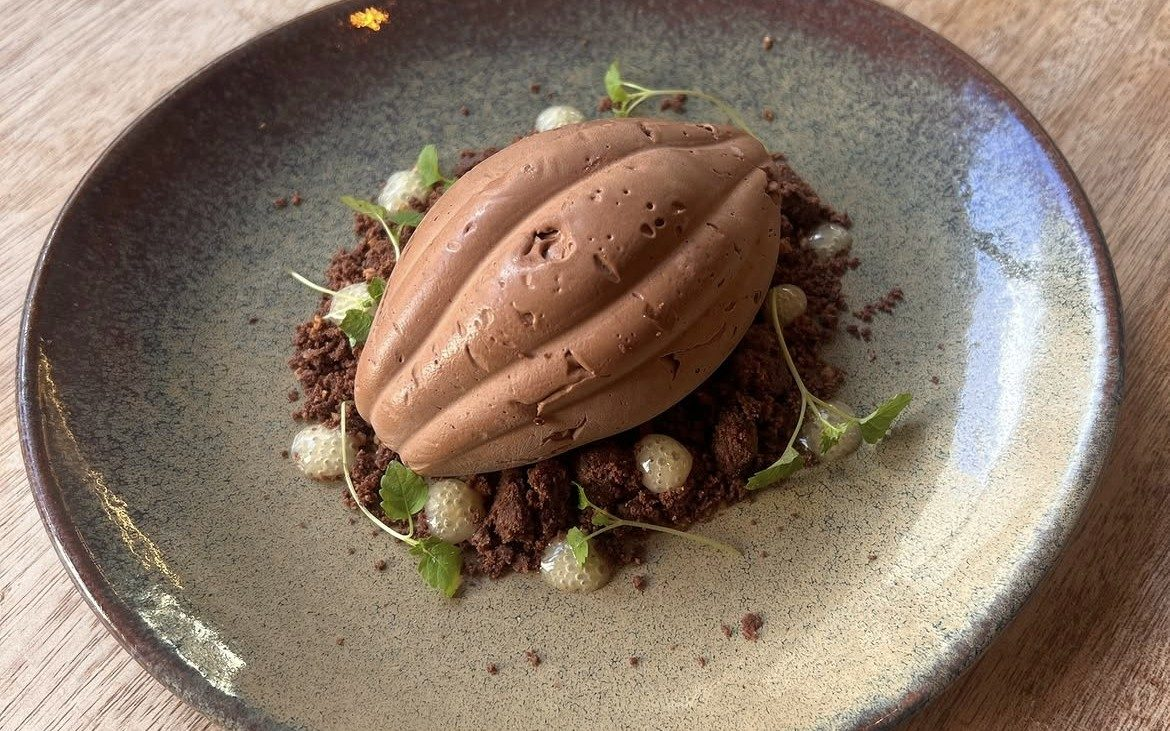
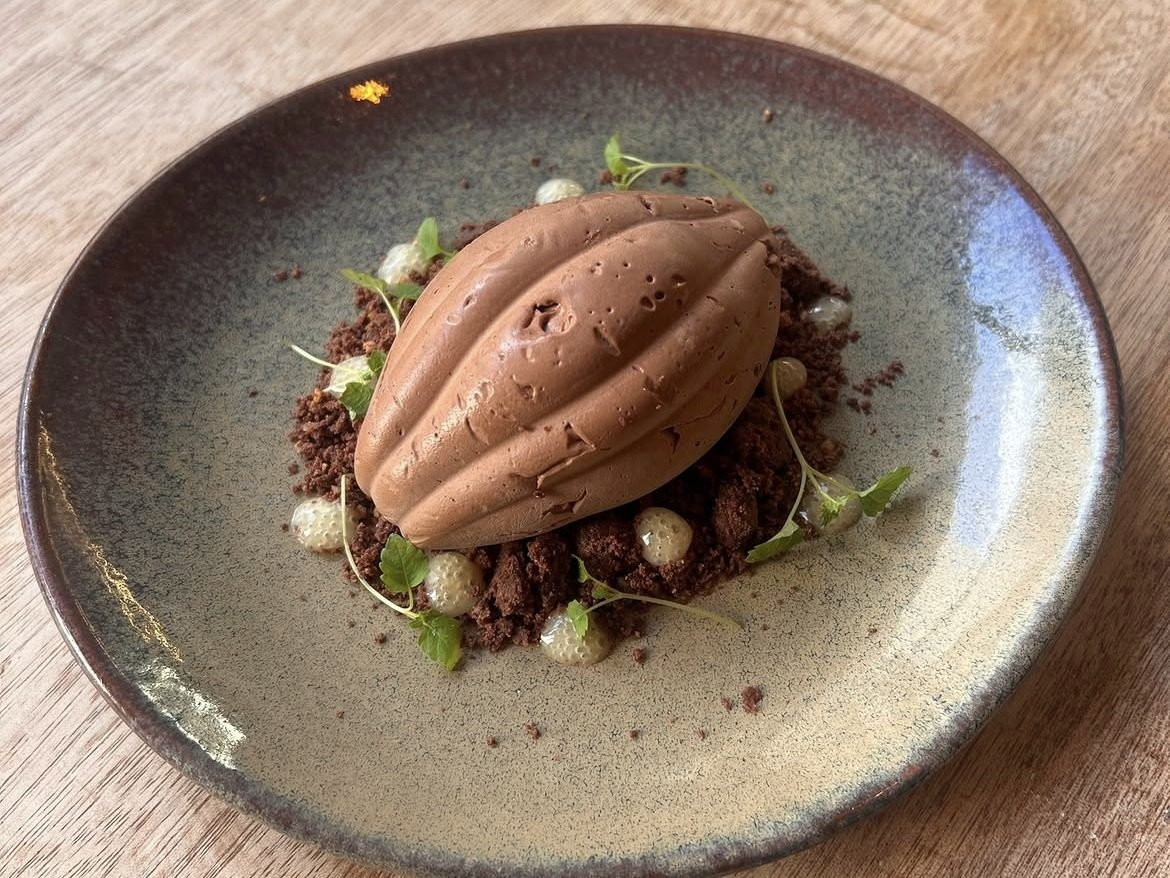
fresh
fresh

diff --git a/it/restaurant.html b/it/restaurant.html
@@ -9,7 +9,7 @@
   <link rel="preconnect" href="https://fonts.gstatic.com" crossorigin>
   <link href="https://fonts.googleapis.com/css2?family=Poppins:wght@300;400;500;600&display=swap" rel="stylesheet">
   <link rel="icon" type="image/svg+xml" href="../favicon.svg">
-  <link rel="stylesheet" href="../css/style.css?v=6">
+  <link rel="stylesheet" href="../css/style.css?v=7">
 </head>
 <body class="theme-resto">
 
@@ -121,9 +121,9 @@
     <h2 class="section-title">Alcuni piatti</h2>
     <hr class="divider">
     <div class="actus-grid">
-      <img src="../img/resto-plat-chou-fleur.jpg" alt="Cavolfiore in tre modi, purea di cavolfiore al tahini, cavolfiore arrosto, tabbouleh di cavolfiore" style="border-radius:6px;height:220px;width:100%;object-fit:cover;">
-      <img src="../img/resto-plat-ravioles.jpg" alt="Ravioli gratinati allo zafferano, specialità di Franquette" style="border-radius:6px;height:220px;width:100%;object-fit:cover;">
-      <img src="../img/resto-plat-chocolat.jpg" alt="Entremet al cioccolato e caffè a forma di baccello di cacao" style="border-radius:6px;height:220px;width:100%;object-fit:cover;">
+      <img src="../img/resto-plat-chou-fleur.jpg" alt="Cavolfiore in tre modi, purea di cavolfiore al tahini, cavolfiore arrosto, tabbouleh di cavolfiore" style="border-radius:6px;width:100%;height:auto;aspect-ratio:4/3;object-fit:cover;">
+      <img src="../img/resto-plat-ravioles.jpg" alt="Ravioli gratinati allo zafferano, specialità di Franquette" style="border-radius:6px;width:100%;height:auto;aspect-ratio:4/3;object-fit:cover;">
+      <img src="../img/resto-plat-chocolat.jpg" alt="Entremet al cioccolato e caffè a forma di baccello di cacao" style="border-radius:6px;width:100%;height:auto;aspect-ratio:4/3;object-fit:cover;">
     </div>
   </div>
 </section>

diff --git a/de/restaurant.html b/de/restaurant.html
@@ -9,7 +9,7 @@
   <link rel="preconnect" href="https://fonts.gstatic.com" crossorigin>
   <link href="https://fonts.googleapis.com/css2?family=Poppins:wght@300;400;500;600&display=swap" rel="stylesheet">
   <link rel="icon" type="image/svg+xml" href="../favicon.svg">
-  <link rel="stylesheet" href="../css/style.css?v=6">
+  <link rel="stylesheet" href="../css/style.css?v=7">
 </head>
 <body class="theme-resto">
 
@@ -121,9 +121,9 @@
     <h2 class="section-title">Ein paar Gerichte</h2>
     <hr class="divider">
     <div class="actus-grid">
-      <img src="../img/resto-plat-chou-fleur.jpg" alt="Blumenkohl auf drei Arten, Blumenkohlpüree mit Tahini, gerösteter Blumenkohl, Blumenkohl-Taboulé" style="border-radius:6px;height:220px;width:100%;object-fit:cover;">
-      <img src="../img/resto-plat-ravioles.jpg" alt="Gratinierte Safran-Ravioli, die Spezialität von Franquette" style="border-radius:6px;height:220px;width:100%;object-fit:cover;">
-      <img src="../img/resto-plat-chocolat.jpg" alt="Schokoladen-Kaffee-Entremet in Form einer Kakaoschote" style="border-radius:6px;height:220px;width:100%;object-fit:cover;">
+      <img src="../img/resto-plat-chou-fleur.jpg" alt="Blumenkohl auf drei Arten, Blumenkohlpüree mit Tahini, gerösteter Blumenkohl, Blumenkohl-Taboulé" style="border-radius:6px;width:100%;height:auto;aspect-ratio:4/3;object-fit:cover;">
+      <img src="../img/resto-plat-ravioles.jpg" alt="Gratinierte Safran-Ravioli, die Spezialität von Franquette" style="border-radius:6px;width:100%;height:auto;aspect-ratio:4/3;object-fit:cover;">
+      <img src="../img/resto-plat-chocolat.jpg" alt="Schokoladen-Kaffee-Entremet in Form einer Kakaoschote" style="border-radius:6px;width:100%;height:auto;aspect-ratio:4/3;object-fit:cover;">
     </div>
   </div>
 </section>

diff --git a/nl/restaurant.html b/nl/restaurant.html
@@ -9,7 +9,7 @@
   <link rel="preconnect" href="https://fonts.gstatic.com" crossorigin>
   <link href="https://fonts.googleapis.com/css2?family=Poppins:wght@300;400;500;600&display=swap" rel="stylesheet">
   <link rel="icon" type="image/svg+xml" href="../favicon.svg">
-  <link rel="stylesheet" href="../css/style.css?v=6">
+  <link rel="stylesheet" href="../css/style.css?v=7">
 </head>
 <body class="theme-resto">
 
@@ -121,9 +121,9 @@
     <h2 class="section-title">Enkele gerechten</h2>
     <hr class="divider">
     <div class="actus-grid">
-      <img src="../img/resto-plat-chou-fleur.jpg" alt="Bloemkool op drie manieren, bloemkoolpuree met tahini, geroosterde bloemkool, bloemkooltabouleh" style="border-radius:6px;height:220px;width:100%;object-fit:cover;">
-      <img src="../img/resto-plat-ravioles.jpg" alt="Gegratineerde saffraanravioli, specialiteit van Franquette" style="border-radius:6px;height:220px;width:100%;object-fit:cover;">
-      <img src="../img/resto-plat-chocolat.jpg" alt="Chocolade-koffie-entremet in de vorm van een cacaopeul" style="border-radius:6px;height:220px;width:100%;object-fit:cover;">
+      <img src="../img/resto-plat-chou-fleur.jpg" alt="Bloemkool op drie manieren, bloemkoolpuree met tahini, geroosterde bloemkool, bloemkooltabouleh" style="border-radius:6px;width:100%;height:auto;aspect-ratio:4/3;object-fit:cover;">
+      <img src="../img/resto-plat-ravioles.jpg" alt="Gegratineerde saffraanravioli, specialiteit van Franquette" style="border-radius:6px;width:100%;height:auto;aspect-ratio:4/3;object-fit:cover;">
+      <img src="../img/resto-plat-chocolat.jpg" alt="Chocolade-koffie-entremet in de vorm van een cacaopeul" style="border-radius:6px;width:100%;height:auto;aspect-ratio:4/3;object-fit:cover;">
     </div>
   </div>
 </section>

diff --git a/restaurant.html b/restaurant.html
@@ -9,7 +9,7 @@
   <link rel="preconnect" href="https://fonts.gstatic.com" crossorigin>
   <link href="https://fonts.googleapis.com/css2?family=Poppins:wght@300;400;500;600&display=swap" rel="stylesheet">
   <link rel="icon" type="image/svg+xml" href="favicon.svg">
-  <link rel="stylesheet" href="css/style.css?v=6">
+  <link rel="stylesheet" href="css/style.css?v=7">
 </head>
 <body class="theme-resto">
 
@@ -185,9 +185,9 @@
     <h2 class="section-title">Quelques assiettes</h2>
     <hr class="divider">
     <div class="actus-grid">
-      <img src="img/resto-plat-chou-fleur.jpg" alt="Chou-fleur en trois façons, purée de chou-fleur au tahini, chou-fleur rôti, taboulé de chou-fleur" style="border-radius:6px;height:220px;width:100%;object-fit:cover;">
-      <img src="img/resto-plat-ravioles.jpg" alt="Ravioles safranées gratinées, spécialité de Franquette" style="border-radius:6px;height:220px;width:100%;object-fit:cover;">
-      <img src="img/resto-plat-chocolat.jpg" alt="Entremet chocolat et café en forme de cabosse de cacao" style="border-radius:6px;height:220px;width:100%;object-fit:cover;">
+      <img src="img/resto-plat-chou-fleur.jpg" alt="Chou-fleur en trois façons, purée de chou-fleur au tahini, chou-fleur rôti, taboulé de chou-fleur" style="border-radius:6px;width:100%;height:auto;aspect-ratio:4/3;object-fit:cover;">
+      <img src="img/resto-plat-ravioles.jpg" alt="Ravioles safranées gratinées, spécialité de Franquette" style="border-radius:6px;width:100%;height:auto;aspect-ratio:4/3;object-fit:cover;">
+      <img src="img/resto-plat-chocolat.jpg" alt="Entremet chocolat et café en forme de cabosse de cacao" style="border-radius:6px;width:100%;height:auto;aspect-ratio:4/3;object-fit:cover;">
     </div>
   </div>
 </section>

diff --git a/en/restaurant.html b/en/restaurant.html
@@ -9,7 +9,7 @@
   <link rel="preconnect" href="https://fonts.gstatic.com" crossorigin>
   <link href="https://fonts.googleapis.com/css2?family=Poppins:wght@300;400;500;600&display=swap" rel="stylesheet">
   <link rel="icon" type="image/svg+xml" href="../favicon.svg">
-  <link rel="stylesheet" href="../css/style.css?v=6">
+  <link rel="stylesheet" href="../css/style.css?v=7">
 </head>
 <body class="theme-resto">
 
@@ -121,9 +121,9 @@
     <h2 class="section-title">A few dishes</h2>
     <hr class="divider">
     <div class="actus-grid">
-      <img src="../img/resto-plat-chou-fleur.jpg" alt="Cauliflower three ways, tahini cauliflower purée, roasted cauliflower, cauliflower tabbouleh" style="border-radius:6px;height:220px;width:100%;object-fit:cover;">
-      <img src="../img/resto-plat-ravioles.jpg" alt="Gratinated saffron ravioles, Franquette's signature dish" style="border-radius:6px;height:220px;width:100%;object-fit:cover;">
-      <img src="../img/resto-plat-chocolat.jpg" alt="Chocolate and coffee entremet shaped like a cocoa pod" style="border-radius:6px;height:220px;width:100%;object-fit:cover;">
+      <img src="../img/resto-plat-chou-fleur.jpg" alt="Cauliflower three ways, tahini cauliflower purée, roasted cauliflower, cauliflower tabbouleh" style="border-radius:6px;width:100%;height:auto;aspect-ratio:4/3;object-fit:cover;">
+      <img src="../img/resto-plat-ravioles.jpg" alt="Gratinated saffron ravioles, Franquette's signature dish" style="border-radius:6px;width:100%;height:auto;aspect-ratio:4/3;object-fit:cover;">
+      <img src="../img/resto-plat-chocolat.jpg" alt="Chocolate and coffee entremet shaped like a cocoa pod" style="border-radius:6px;width:100%;height:auto;aspect-ratio:4/3;object-fit:cover;">
     </div>
   </div>
 </section>

diff --git a/boutique.html b/boutique.html
@@ -9,7 +9,7 @@
   <link rel="preconnect" href="https://fonts.gstatic.com" crossorigin>
   <link href="https://fonts.googleapis.com/css2?family=Poppins:wght@300;400;500;600&display=swap" rel="stylesheet">
   <link rel="icon" type="image/svg+xml" href="favicon.svg">
-  <link rel="stylesheet" href="css/style.css?v=6">
+  <link rel="stylesheet" href="css/style.css?v=7">
 </head>
 <body class="theme-boutique">
 
@@ -48,7 +48,7 @@
       </div>
       <img class="photo-4" src="img/boutique-jarres-bleues.jpg" alt="Jarres en céramique faites main, glaçure bleu-vert">
       <img class="photo-5" src="img/boutique-tasses-empilees.jpg" alt="Tasses en céramique faites main empilées, glaçures vertes et cuivrées">
-      <p class="collage-text" data-txt="boutique.tagline">Emporter un peu de Franquette chez soi</p>
+      <p class="collage-text" data-txt="boutique.tagline">Emportez un peu de Franquette chez vous</p>
     </div>
   </div>
 </section>

diff --git a/de/boutique.html b/de/boutique.html
@@ -9,7 +9,7 @@
   <link rel="preconnect" href="https://fonts.gstatic.com" crossorigin>
   <link href="https://fonts.googleapis.com/css2?family=Poppins:wght@300;400;500;600&display=swap" rel="stylesheet">
   <link rel="icon" type="image/svg+xml" href="../favicon.svg">
-  <link rel="stylesheet" href="../css/style.css?v=6">
+  <link rel="stylesheet" href="../css/style.css?v=7">
 </head>
 <body class="theme-boutique">
 

diff --git a/de/produit.html b/de/produit.html
@@ -9,7 +9,7 @@
   <link rel="preconnect" href="https://fonts.gstatic.com" crossorigin>
   <link href="https://fonts.googleapis.com/css2?family=Poppins:wght@300;400;500;600&display=swap" rel="stylesheet">
   <link rel="icon" type="image/svg+xml" href="../favicon.svg">
-  <link rel="stylesheet" href="../css/style.css?v=6">
+  <link rel="stylesheet" href="../css/style.css?v=7">
 </head>
 <body class="theme-boutique">
 

diff --git a/en/boutique.html b/en/boutique.html
@@ -9,7 +9,7 @@
   <link rel="preconnect" href="https://fonts.gstatic.com" crossorigin>
   <link href="https://fonts.googleapis.com/css2?family=Poppins:wght@300;400;500;600&display=swap" rel="stylesheet">
   <link rel="icon" type="image/svg+xml" href="../favicon.svg">
-  <link rel="stylesheet" href="../css/style.css?v=6">
+  <link rel="stylesheet" href="../css/style.css?v=7">
 </head>
 <body class="theme-boutique">
 

diff --git a/en/produit.html b/en/produit.html
@@ -9,7 +9,7 @@
   <link rel="preconnect" href="https://fonts.gstatic.com" crossorigin>
   <link href="https://fonts.googleapis.com/css2?family=Poppins:wght@300;400;500;600&display=swap" rel="stylesheet">
   <link rel="icon" type="image/svg+xml" href="../favicon.svg">
-  <link rel="stylesheet" href="../css/style.css?v=6">
+  <link rel="stylesheet" href="../css/style.css?v=7">
 </head>
 <body class="theme-boutique">
 

diff --git a/it/boutique.html b/it/boutique.html
@@ -9,7 +9,7 @@
   <link rel="preconnect" href="https://fonts.gstatic.com" crossorigin>
   <link href="https://fonts.googleapis.com/css2?family=Poppins:wght@300;400;500;600&display=swap" rel="stylesheet">
   <link rel="icon" type="image/svg+xml" href="../favicon.svg">
-  <link rel="stylesheet" href="../css/style.css?v=6">
+  <link rel="stylesheet" href="../css/style.css?v=7">
 </head>
 <body class="theme-boutique">
 

diff --git a/it/produit.html b/it/produit.html
@@ -9,7 +9,7 @@
   <link rel="preconnect" href="https://fonts.gstatic.com" crossorigin>
   <link href="https://fonts.googleapis.com/css2?family=Poppins:wght@300;400;500;600&display=swap" rel="stylesheet">
   <link rel="icon" type="image/svg+xml" href="../favicon.svg">
-  <link rel="stylesheet" href="../css/style.css?v=6">
+  <link rel="stylesheet" href="../css/style.css?v=7">
 </head>
 <body class="theme-boutique">
 
